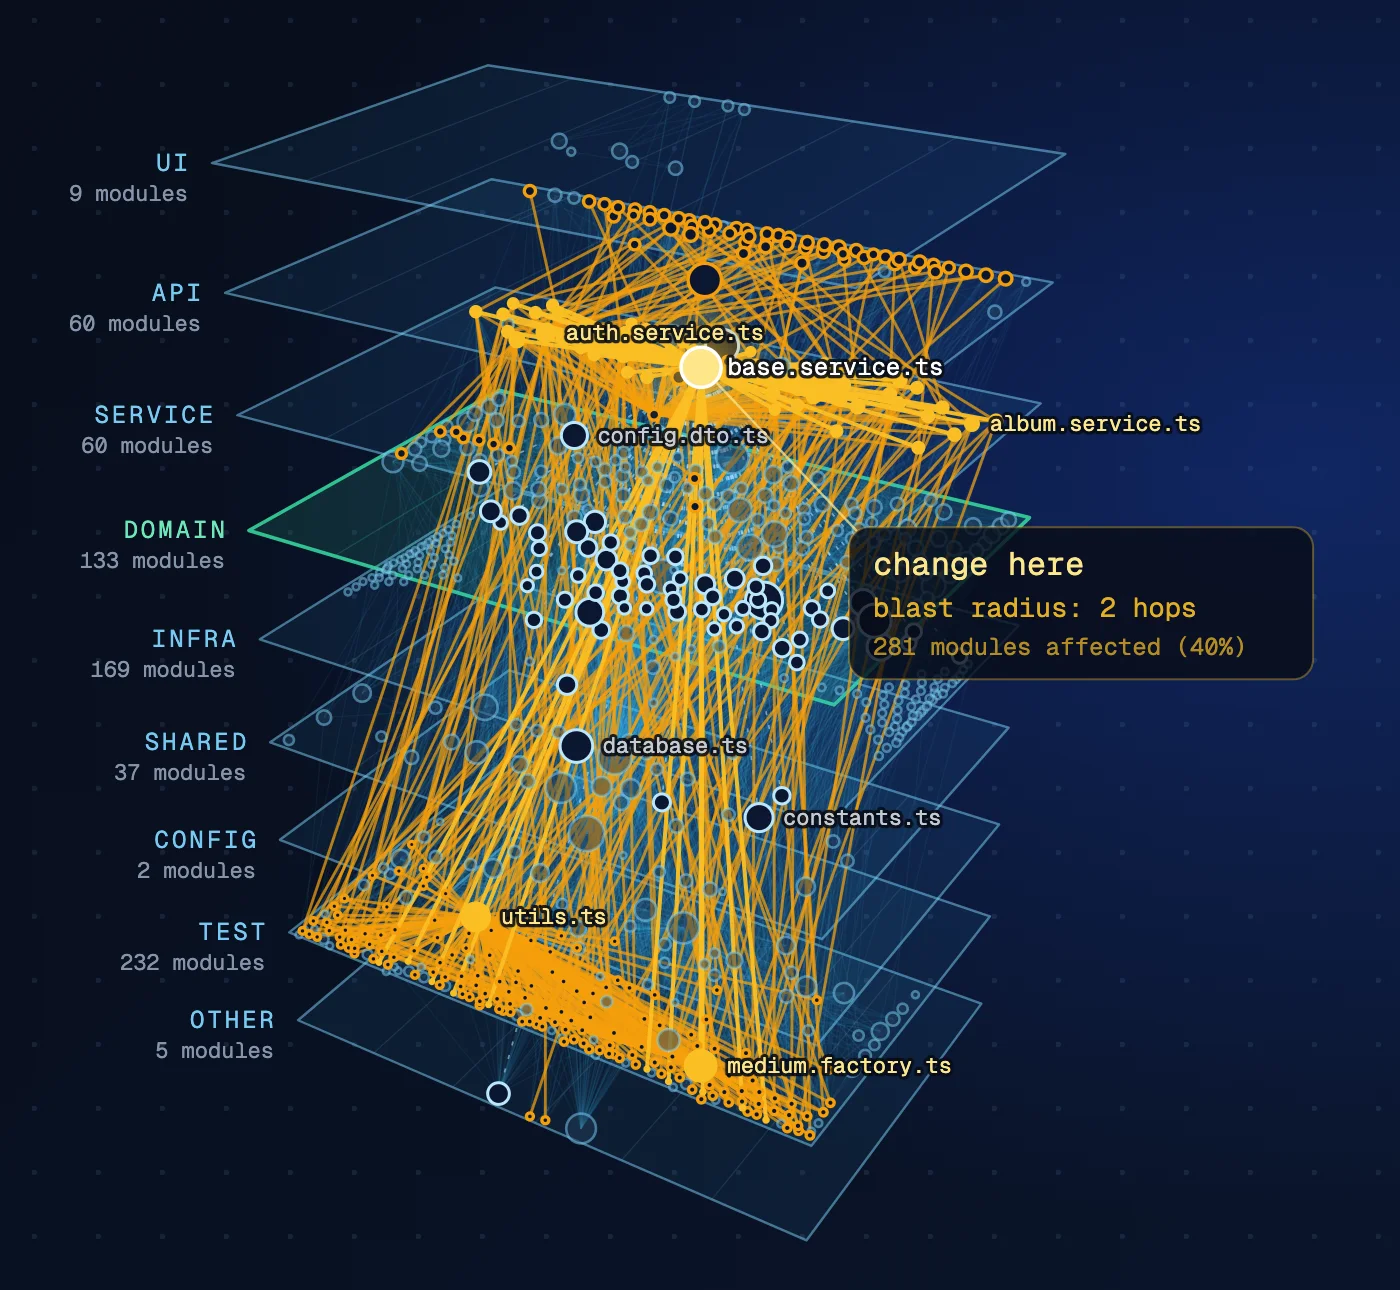
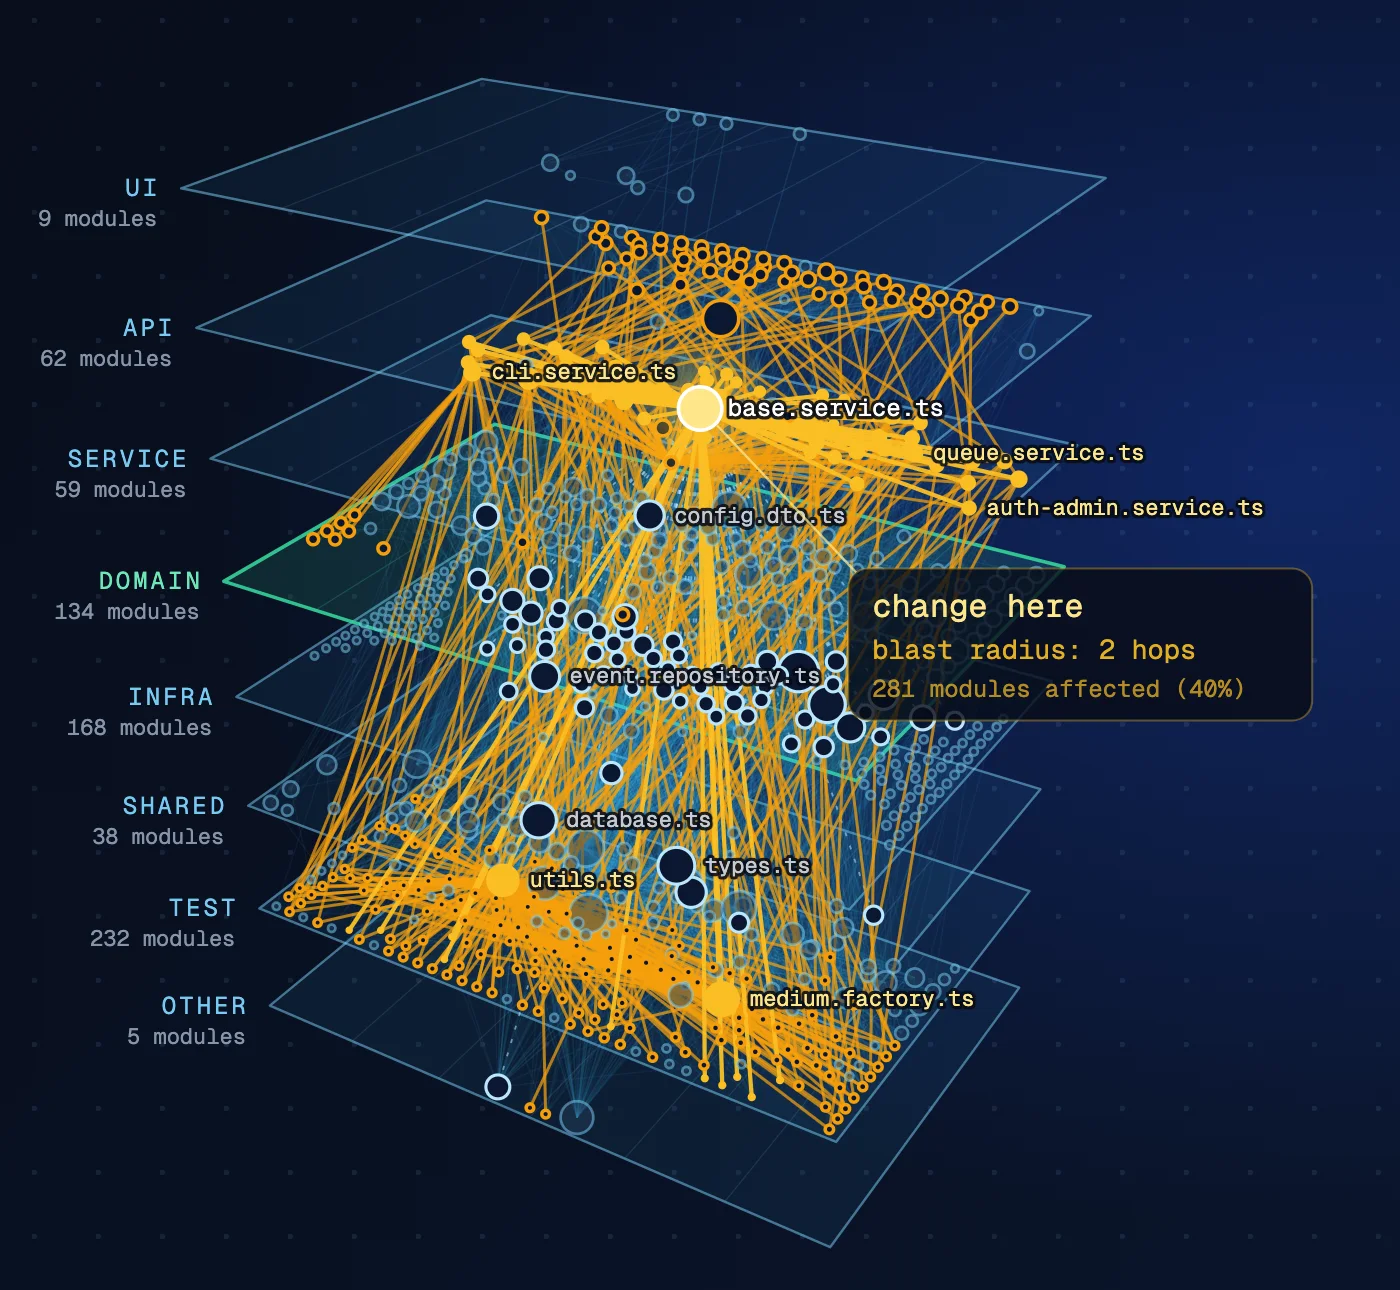
Rebuild the README demo pictures from Wingbox 0.2.2
The pictures were made with 0.2.0 and an unreleased build. They are
generated again from the released 0.2.2 on the same commit of the
example repository, so a reader who runs the tool sees what they show.

diff --git a/LOG.md b/LOG.md
@@ -1,5 +1,13 @@
 # Completion Log
 
+## 2026-11-16 - README demo pictures rebuilt from 0.2.2
+
+### Changes
+- `docs/assets/demo-impact.svg`, `demo-layers.webp`, `map-layers-hub.webp`: generated again from Wingbox 0.2.2 on the same commit of the example repository. The stack of layers in the animation has six planes (the index file of the controllers folder is API, `types.ts` is shared), the recording and the screenshot show the layer sizes of 0.2.2. `README.md` names the version.
+
+### Motivation
+- The pictures were made with 0.2.0 and an unreleased build; a reader who runs the released tool on the example should see what the pictures show.
+
 ## 2026-11-16 - a Python package init takes the layer of its package
 
 ### Changes

diff --git a/README.md b/README.md
@@ -38,7 +38,7 @@ access to build or query it.
 </p>
 
 Once the graph is built, an agent asks what a change breaks before it edits
-anything. Real output, Wingbox 0.2.0 on the server of
+anything. Real output, Wingbox 0.2.2 on the server of
 [immich](https://github.com/immich-app/immich) (commit `e5d6eb7`, 707 modules):
 
 ```text
